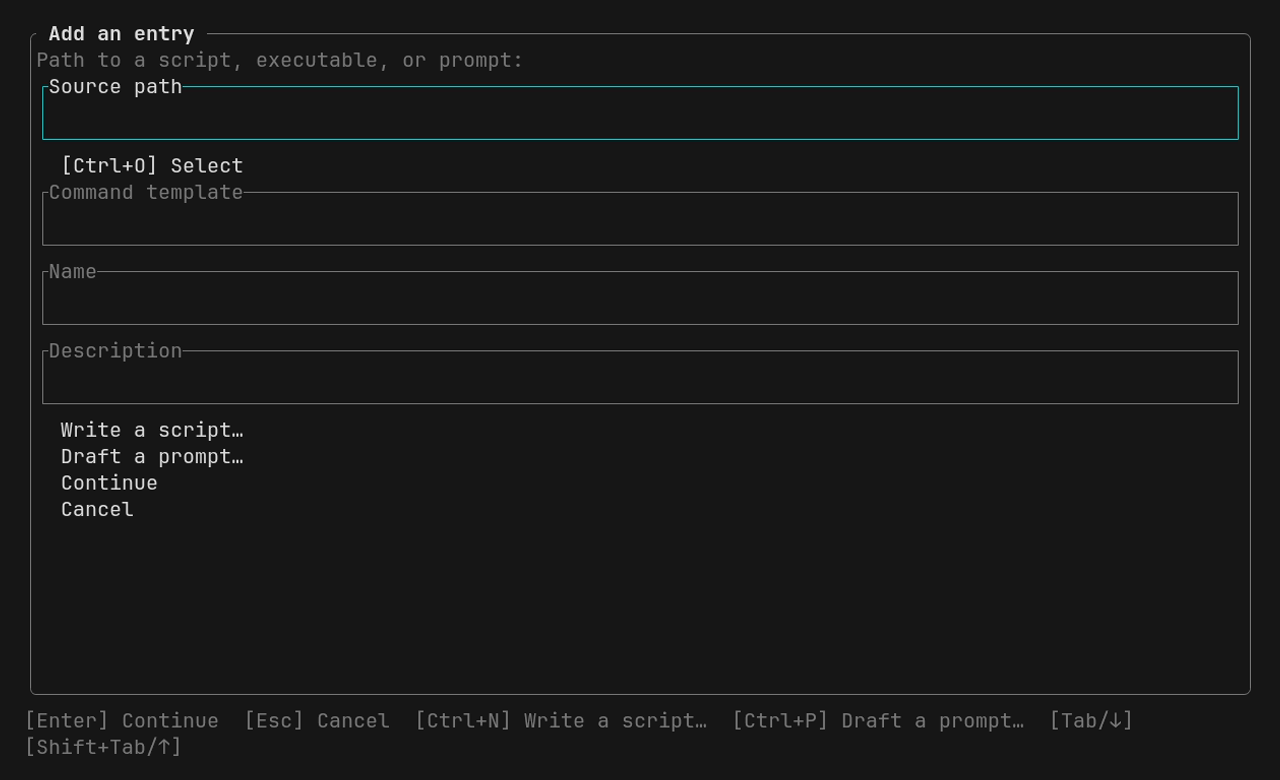
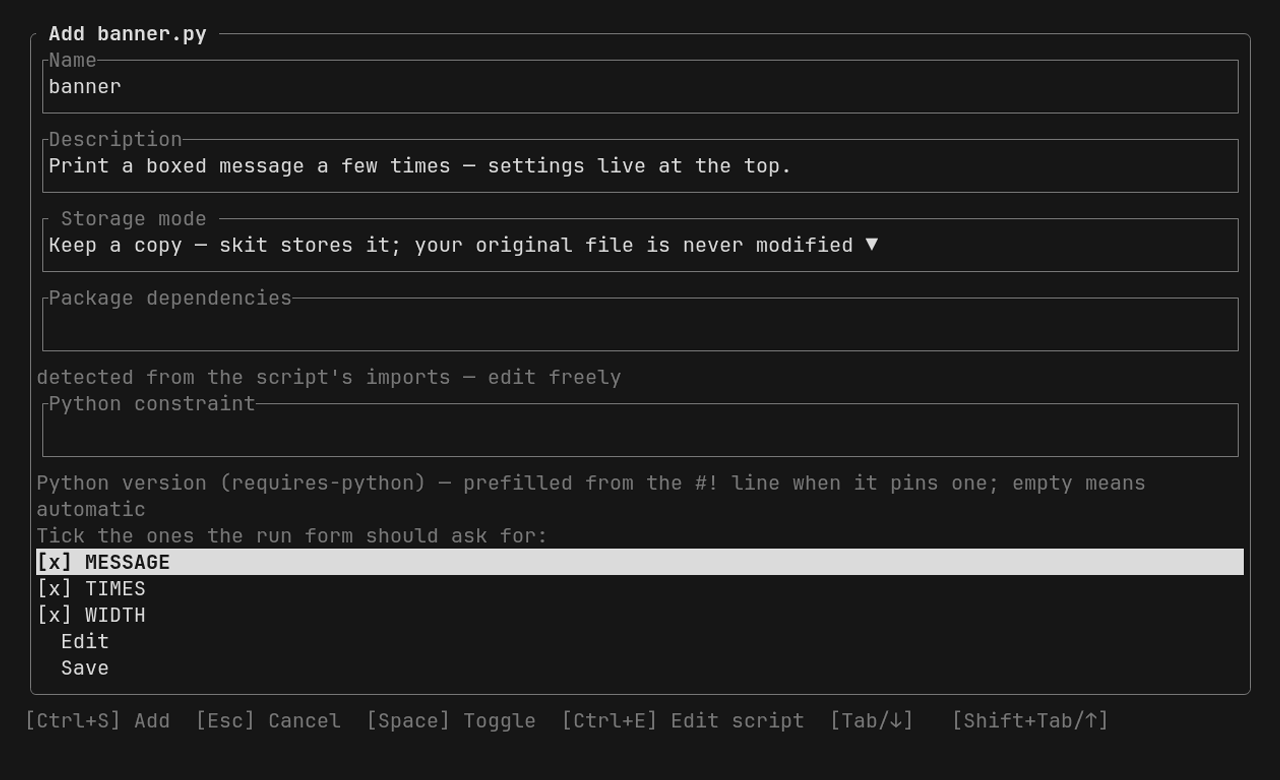
docs: restore the demo that the Rust rewrite removed
The rewrite commit be3f5250 (in its original history, "docs: publish
Simplified and Traditional Chinese documentation") replaced the demo
and did not say so:

- demo.tape went from eight scenes with two scripts to one script. It
  showed `skit add greet.py --no-input` on camera and dropped the review
  panel, the filled run form, the file picker, the vim view of the
  [tool.skit] block, the injected run, and the Entry settings scroll.
- shots.tape dropped the live add of banner. The add shot showed an
  empty Add screen, the form shot an empty form, and the settings shot
  greet, which has no managed constant.
- The READMEs lost the demo video, the captions of the screenshot grid,
  and the mouse GIF, and docs/assets/demo-mouse.gif was deleted.

Restore the eight scenes and the four screenshots on the Ratatui keys:
p opens Entry settings, q quits, seven Tabs reach WIDTH, and on a path
field Ctrl+T puts "File or folder…" first. The tapes, the 12
screenshots, and the three videos are recorded again. Each README gets
its locale's video as a GitHub attachment, the grid captions, and the
GIF block under the grid. record_demo.sh gets back its /tape note and
its mouse GIF note. CONTRIBUTING.md gets the rule: the videos show what
a person does, and no machine flag is on camera.

The new GIF is a hand recording of the Preferences screen driven by the
mouse alone: the Edit agent and New agent dialogs, the mirror switches,
[…]

diff --git a/CONTRIBUTING.md b/CONTRIBUTING.md
@@ -138,6 +138,11 @@ npm run build
 (`docs/assets/demo-{en,zh-CN,zh-TW}.mp4`). It needs Docker. Regenerate the assets when TUI copy,
 layout, or colors change.
 
+The videos show what a person does: `skit add` in the shell, the review panel, the run form with
+the file picker, `e` in vim, and Entry settings, for two scripts. Do not remove a step to make a
+recording pass; change the tape to the new keys. Do not put `--no-input` or other machine flags on
+camera. A hidden setup step can use them.
+
 Git ignores the videos. GitHub serves an mp4 file from the repository as a download, so each README
 `<video>` tag points at a GitHub attachment URL (`github.com/user-attachments/assets/…`). To refresh
 a video, drag the new file into a pull request or issue comment, copy the attachment URL that
@@ -153,9 +158,13 @@ then convert the part to keep:
 
 ```bash
 SRC=recording.mov  # macOS puts a narrow no-break space before AM or PM in the name: use a glob
-START=16           # first second to keep
-LENGTH=21          # seconds to keep, before the 1.5x speed-up
-common="setpts=PTS/1.5,fps=15,scale=1000:-1:flags=lanczos"
+START=20           # first second to keep
+LENGTH=23          # seconds to keep, before the 1.5x speed-up
+# The terminal window without the black shadow margin of a window recording:
+ffmpeg -ss 5 -i "$SRC" -t 30 -vf cropdetect=limit=20:round=2:reset=0 -f null - 2>&1 \
+  | grep -o 'crop=[0-9:]*' | tail -1
+CROP=1788:1172:112:76  # the value that the previous command prints
+common="crop=${CROP},setpts=PTS/1.5,fps=12,scale=900:-1:flags=lanczos"
 ffmpeg -y -ss "$START" -t "$LENGTH" -i "$SRC" -vf "${common},palettegen=stats_mode=diff" pal.png
 ffmpeg -y -ss "$START" -t "$LENGTH" -i "$SRC" -i pal.png \
   -lavfi "${common} [x]; [x][1:v] paletteuse=dither=bayer:bayer_scale=3:diff_mode=rectangle" \
@@ -163,7 +172,8 @@ ffmpeg -y -ss "$START" -t "$LENGTH" -i "$SRC" -i pal.png \
 ```
 
 Keep the clip short: about 15 seconds after the speed-up and less than 2 MB. A full-length clip of
-one minute came out at about 18 MB.
+one minute came out at about 18 MB, and a 43-second clip at about 5 MB. The values above make the
+current GIF from the September 2026 recording.
 
 ## Benchmarks
 

diff --git a/README.md b/README.md
@@ -30,13 +30,19 @@ Not a terminal person? That is fine — skit works like a GUI app that happens t
 
 Your AI agent gets the same library: you use it from a menu, agents use it through a deterministic CLI and a skill, so scripts get saved and reused.
 
+<video src="https://github.com/user-attachments/assets/c992e855-965f-45c6-a746-6ef8a7a8ad40" controls></video>
+
 ### The interface
 
+| ![The library menu](https://raw.githubusercontent.com/t41372/skit/main/docs/assets/tui-library-en.png) | ![The launch menu](https://raw.githubusercontent.com/t41372/skit/main/docs/assets/tui-form-en.png) |
+|:--:|:--:|
+| **The library** — every action on screen, mouse or keyboard | **The launch menu** — generated from the script's own parameters |
+| ![Adding a script](https://raw.githubusercontent.com/t41372/skit/main/docs/assets/tui-add-en.png) | ![Script settings](https://raw.githubusercontent.com/t41372/skit/main/docs/assets/tui-settings-en.png) |
+| **Adding a script** — parameters detected statically; you choose which ones skit manages | **Script settings** — parameters, secrets, presets, dependencies |
+
 <p align="center">
-  <img src="https://raw.githubusercontent.com/t41372/skit/main/docs/assets/tui-library-en.png" alt="skit library" width="49%">
-  <img src="https://raw.githubusercontent.com/t41372/skit/main/docs/assets/tui-form-en.png" alt="skit run form" width="49%">
-  <img src="https://raw.githubusercontent.com/t41372/skit/main/docs/assets/tui-add-en.png" alt="skit Add workflow" width="49%">
-  <img src="https://raw.githubusercontent.com/t41372/skit/main/docs/assets/tui-settings-en.png" alt="skit settings" width="49%">
+  <img width="480" alt="Driving skit with the mouse alone — every control on screen is a click target" src="https://raw.githubusercontent.com/t41372/skit/main/docs/assets/demo-mouse.gif"><br>
+  <em>Fully mouse operable — every key hint on screen is also a button.</em>
 </p>
 
 ## What it does

diff --git a/README.zh-TW.md b/README.zh-TW.md
@@ -30,13 +30,19 @@ skit                 # 打開選單——選、填、跑
 
 你的 AI agent 也能用 skit：你從選單操作，agent 走確定性的 CLI 和 skill——AI 寫完的腳本存進去，之後隨時都能再拿出來用。
 
+<video src="https://github.com/user-attachments/assets/940baa98-6298-459c-9cc0-12b79223f342" controls></video>
+
 ### 介面
 
+| ![工具庫](https://raw.githubusercontent.com/t41372/skit/main/docs/assets/tui-library-zh-TW.png) | ![啟動選單](https://raw.githubusercontent.com/t41372/skit/main/docs/assets/tui-form-zh-TW.png) |
+|:--:|:--:|
+| **工具庫**——每個動作都在畫面上，滑鼠鍵盤皆可 | **啟動選單**——從腳本自己的參數生成 |
+| ![加入腳本](https://raw.githubusercontent.com/t41372/skit/main/docs/assets/tui-add-zh-TW.png) | ![腳本設定](https://raw.githubusercontent.com/t41372/skit/main/docs/assets/tui-settings-zh-TW.png) |
+| **加入腳本**——靜態偵測參數；哪些交給 skit 管理由你決定 | **腳本設定**——參數、機密、預設、依賴 |
+
 <p align="center">
-  <img src="https://raw.githubusercontent.com/t41372/skit/main/docs/assets/tui-library-zh-TW.png" alt="skit 指令稿庫" width="49%">
-  <img src="https://raw.githubusercontent.com/t41372/skit/main/docs/assets/tui-form-zh-TW.png" alt="skit 啟動表單" width="49%">
-  <img src="https://raw.githubusercontent.com/t41372/skit/main/docs/assets/tui-add-zh-TW.png" alt="skit 加入流程" width="49%">
-  <img src="https://raw.githubusercontent.com/t41372/skit/main/docs/assets/tui-settings-zh-TW.png" alt="skit 設定" width="49%">
+  <img width="480" alt="只用滑鼠操作 skit——畫面上每個控制項都是可點擊的目標" src="https://raw.githubusercontent.com/t41372/skit/main/docs/assets/demo-mouse.gif"><br>
+  <em>完全滑鼠可操作性——畫面上每個按鍵提示，也都是可點的按鈕。</em>
 </p>
 
 ## 它做什麼

diff --git a/README.zh-CN.md b/README.zh-CN.md
@@ -30,13 +30,19 @@ skit                 # 打开菜单——选、填、跑
 
 你的 AI agent 也能用 skit：你从菜单操作，agent 走确定性的 CLI 和 skill—— AI 写完脚本存进去，之后也能轻松调用。
 
+<video src="https://github.com/user-attachments/assets/5eda5387-8f2b-45d7-aadd-ad334ede7f58" controls></video>
+
 ### 界面
 
+| ![工具库](https://raw.githubusercontent.com/t41372/skit/main/docs/assets/tui-library-zh-CN.png) | ![启动菜单](https://raw.githubusercontent.com/t41372/skit/main/docs/assets/tui-form-zh-CN.png) |
+|:--:|:--:|
+| **工具库**——每个操作都在屏幕上，鼠标键盘都行 | **启动菜单**——根据脚本自己的参数生成 |
+| ![添加脚本](https://raw.githubusercontent.com/t41372/skit/main/docs/assets/tui-add-zh-CN.png) | ![脚本设置](https://raw.githubusercontent.com/t41372/skit/main/docs/assets/tui-settings-zh-CN.png) |
+| **添加脚本**——静态检测参数；哪些交给 skit 管理由你决定 | **脚本设置**——参数、机密、预设、依赖 |
+
 <p align="center">
-  <img src="https://raw.githubusercontent.com/t41372/skit/main/docs/assets/tui-library-zh-CN.png" alt="skit 脚本库" width="49%">
-  <img src="https://raw.githubusercontent.com/t41372/skit/main/docs/assets/tui-form-zh-CN.png" alt="skit 启动表单" width="49%">
-  <img src="https://raw.githubusercontent.com/t41372/skit/main/docs/assets/tui-add-zh-CN.png" alt="skit 添加流程" width="49%">
-  <img src="https://raw.githubusercontent.com/t41372/skit/main/docs/assets/tui-settings-zh-CN.png" alt="skit 设置" width="49%">
+  <img width="480" alt="只用鼠标操作 skit——画面上每个控件都是可以点击的目标" src="https://raw.githubusercontent.com/t41372/skit/main/docs/assets/demo-mouse.gif"><br>
+  <em>完全支持鼠标操作——画面上每个按键提示，也都是可以点的按钮。</em>
 </p>
 
 ## 它做什么
